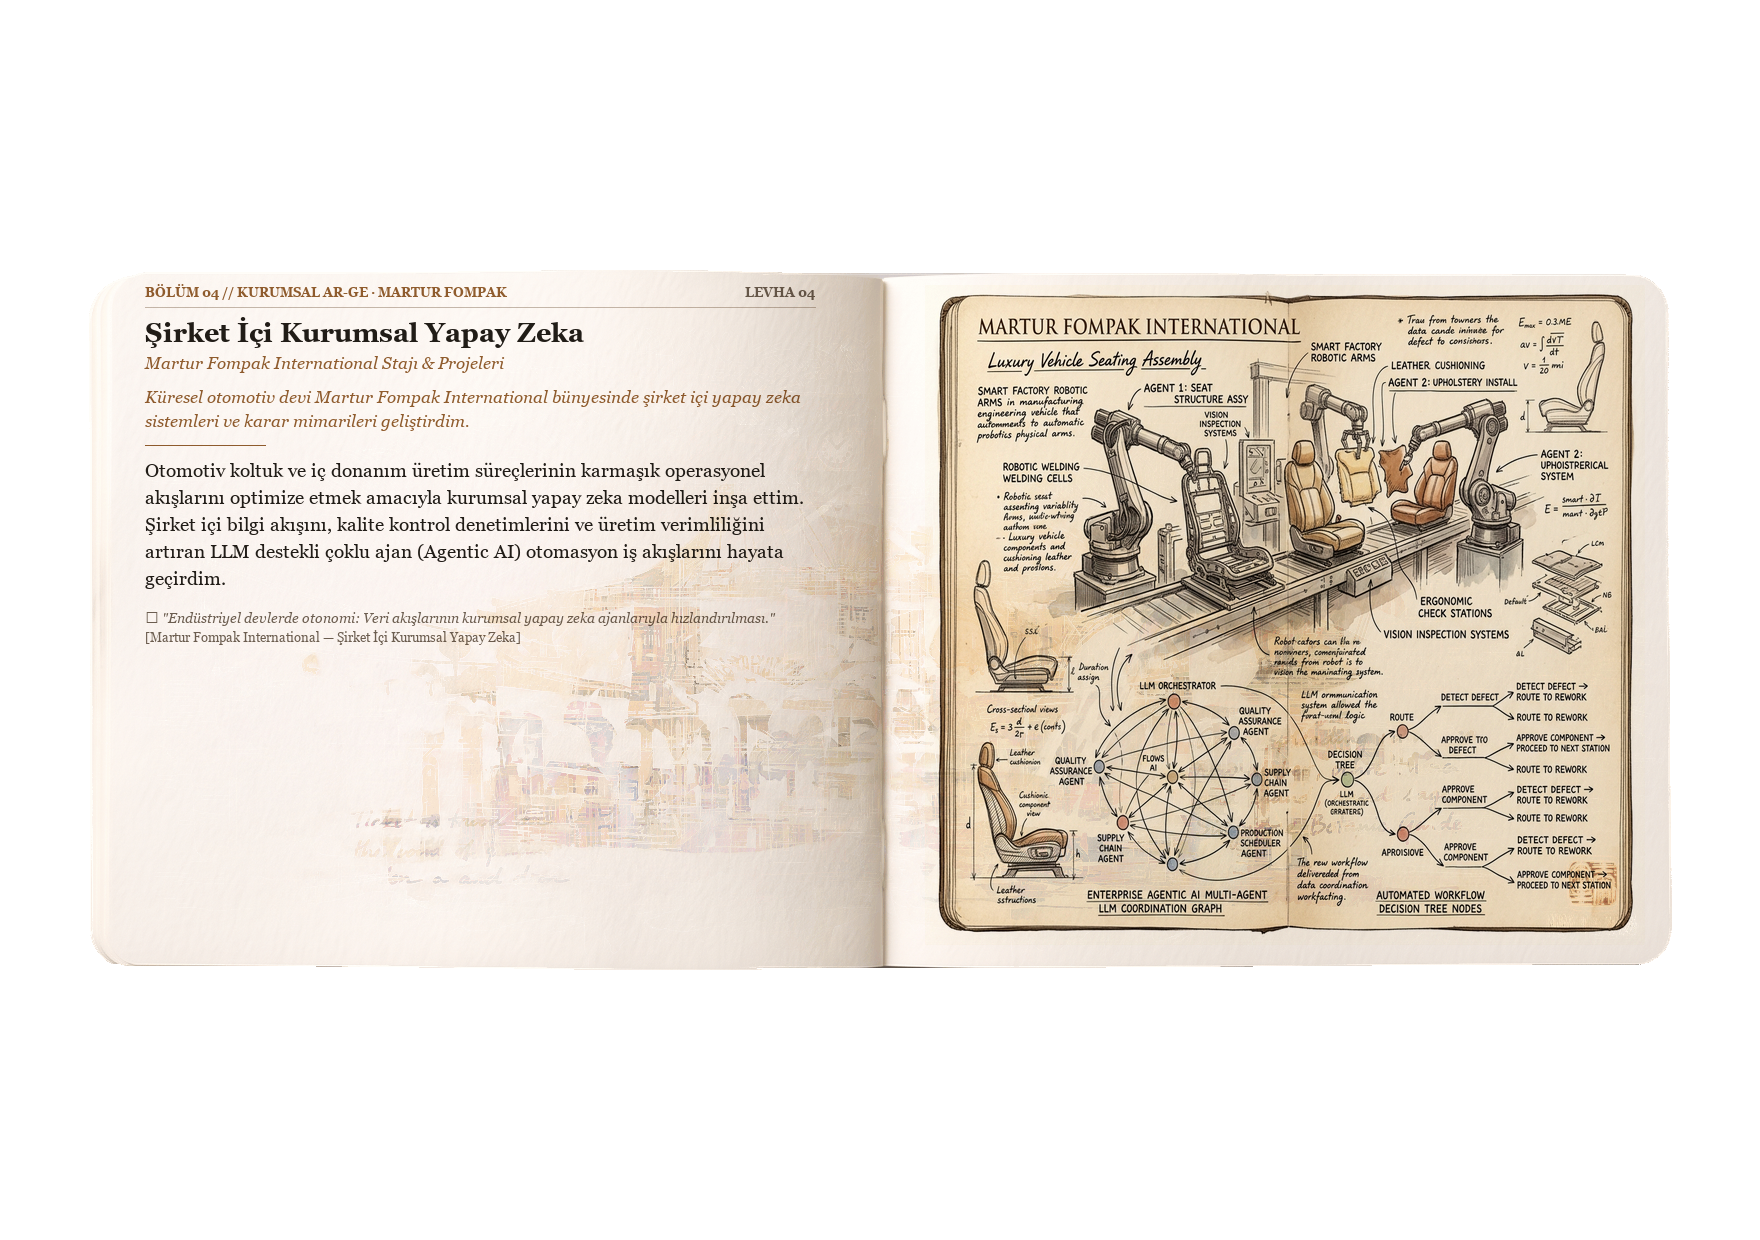
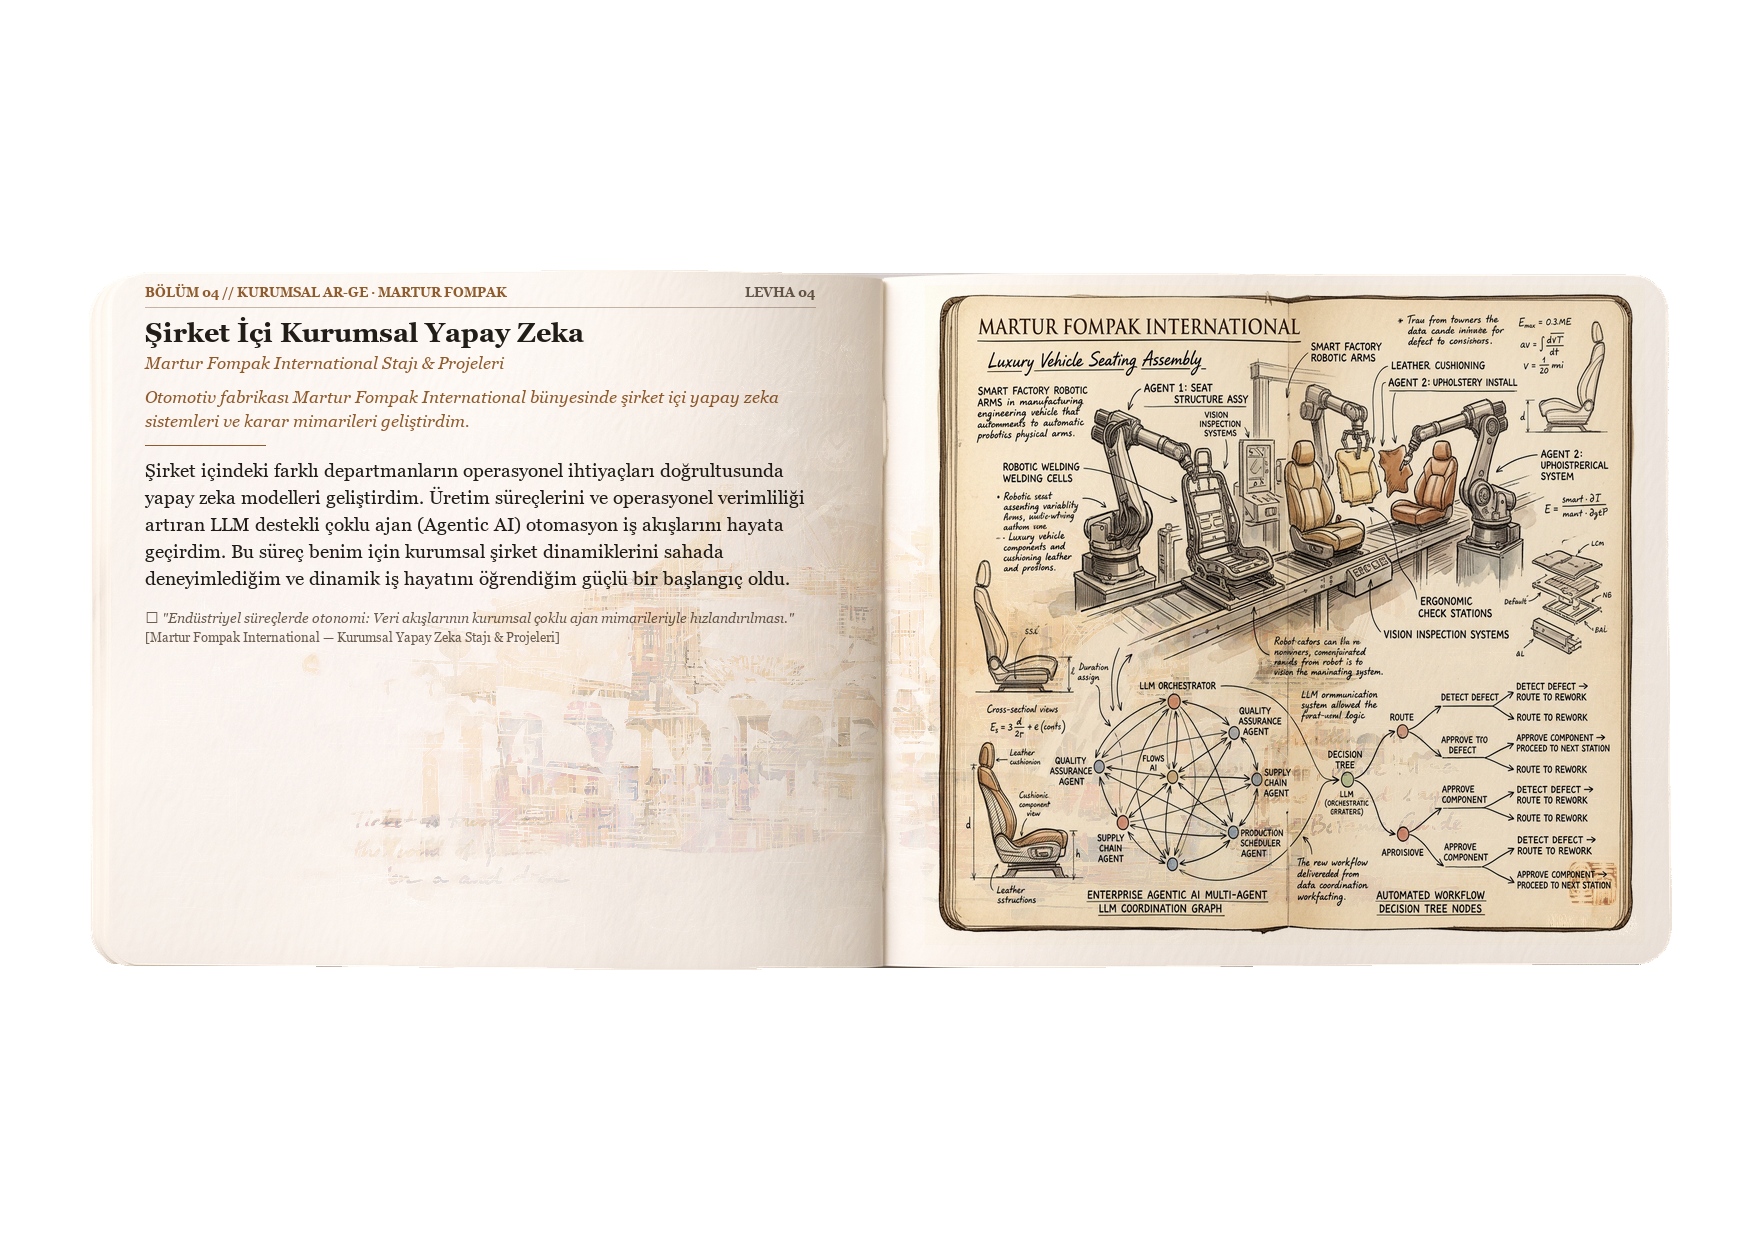
feat(sketchbook): update Martur Fompak page 04 with automotive factory wording and dynamic business experience text

Changed region(s): [[0.0625, 0.3677, 0.4688, 0.521], [0.0938, 0.3065, 0.4375, 0.3371]]

diff --git a/scratch/build_spread_04_martur.py b/scratch/build_spread_04_martur.py
@@ -1,0 +1,113 @@
+import os
+from PIL import Image, ImageDraw, ImageFont
+import numpy as np
+
+SPREAD_BASE = r'scratch/clean_paper_spread.png'
+OUT_FINAL = r'public/landing-pages/meng-to-sketchbook/buddha-tooth.png'
+ILLUS_PATH = r'C:\Users\dloozi\.gemini\antigravity-cli\brain\af0d76d1-4e98-4245-9246-8ea4316a204d\plate07_martur_ai_1789635782335.jpg'
+
+spread = Image.open(SPREAD_BASE).convert('RGBA')
+spread_arr = np.array(spread)
+alpha_orig = spread_arr[:, :, 3]
+
+# Crisp, elegant typography
+font_kicker = ImageFont.truetype(r'C:\Windows\Fonts\georgiab.ttf', 13)
+font_title = ImageFont.truetype(r'C:\Windows\Fonts\georgiab.ttf', 27)
+font_sub = ImageFont.truetype(r'C:\Windows\Fonts\georgiai.ttf', 17)
+font_italic = ImageFont.truetype(r'C:\Windows\Fonts\georgiai.ttf', 17)
+font_body = ImageFont.truetype(r'C:\Windows\Fonts\georgia.ttf', 19)
+font_note = ImageFont.truetype(r'C:\Windows\Fonts\georgiai.ttf', 14)
+font_signature = ImageFont.truetype(r'C:\Windows\Fonts\georgia.ttf', 13)
+
+INK_DEEP = (34, 30, 25, 255)
+INK_FAINT = (110, 98, 85, 255)
+EARTH = (145, 95, 48, 255)
+RULE_COLOR = (175, 160, 145, 180)
+
+canvas = Image.new('RGBA', (1760, 1240), (0, 0, 0, 0))
+draw = ImageDraw.Draw(canvas)
+
+LX = 145
+LY = 285
+MAX_W = 670
+
+# 1. Kicker & Plate Number
+draw.text((LX, LY), 'BÖLÜM 04 // KURUMSAL AR-GE · MARTUR FOMPAK', font=font_kicker, fill=EARTH)
+draw.text((LX + MAX_W - 70, LY), 'LEVHA 04', font=font_kicker, fill=INK_FAINT)
+draw.line([(LX, LY + 22), (LX + MAX_W, LY + 22)], fill=RULE_COLOR, width=1)
+
+# 2. Title & Subtitle
+draw.text((LX, LY + 32), 'Şirket İçi Kurumsal Yapay Zeka', font=font_title, fill=INK_DEEP)
+draw.text((LX, LY + 68), 'Martur Fompak International Stajı & Projeleri', font=font_sub, fill=EARTH)
+
+def wrap_text(text, font, max_width, d):
+    words = text.split(' ')
+    lines = []
+    cur = words[0]
+    for w in words[1:]:
+        test = cur + ' ' + w
+        bbox = d.textbbox((0, 0), test, font=font)
+        if bbox[2] - bbox[0] <= max_width:
+            cur = test
+        else:
+            lines.append(cur)
+            cur = w
+    lines.append(cur)
+    return lines
+
+# Lead text: 'otomotiv devi' changed to 'otomotiv fabrikası'
+lead_text = 'Otomotiv fabrikası Martur Fompak International bünyesinde şirket içi yapay zeka sistemleri ve karar mimarileri geliştirdim.'
+curr_y = LY + 102
+for line in wrap_text(lead_text, font_italic, MAX_W, draw):
+    draw.text((LX, curr_y), line, font=font_italic, fill=EARTH)
+    curr_y += 24
+
+curr_y += 10
+draw.line([(LX, curr_y), (LX + 120, curr_y)], fill=EARTH, width=1)
+curr_y += 14
+
+# Body text: Department needs, Agentic AI, and learning dynamic business life
+body_text = (
+    'Şirket içindeki farklı departmanların operasyonel ihtiyaçları doğrultusunda yapay zeka modelleri '
+    'geliştirdim. Üretim süreçlerini ve operasyonel verimliliği artıran LLM destekli çoklu ajan '
+    '(Agentic AI) otomasyon iş akışlarını hayata geçirdim. Bu süreç benim için kurumsal şirket dinamiklerini '
+    'sahada deneyimlediğim ve dinamik iş hayatını öğrendiğim güçlü bir başlangıç oldu.'
+)
+
+for line in wrap_text(body_text, font_body, MAX_W, draw):
+    draw.text((LX, curr_y), line, font=font_body, fill=INK_DEEP)
+    curr_y += 27
+
+curr_y += 16
+note_text = '✦ "Endüstriyel süreçlerde otonomi: Veri akışlarının kurumsal çoklu ajan mimarileriyle hızlandırılması."'
+draw.text((LX, curr_y), note_text, font=font_note, fill=INK_FAINT)
+curr_y += 20
+
+signature_text = '[Martur Fompak International — Kurumsal Yapay Zeka Stajı & Projeleri]'
+draw.text((LX, curr_y), signature_text, font=font_signature, fill=INK_FAINT)
+
+# 3. Right Page: Plate 07 Martur AI Multi-Agent & Factory assembly
+if os.path.exists(ILLUS_PATH):
+    im_illus = Image.open(ILLUS_PATH).convert('RGBA')
+    im_resized = im_illus.resize((720, 660), Image.Resampling.LANCZOS)
+    canvas.paste(im_resized, (925, 285))
+
+# 4. Multiply Blend onto spread paper
+canvas_arr = np.array(canvas)
+out_arr = np.zeros_like(spread_arr)
+
+base_rgb = spread_arr[:, :, :3].astype(float)
+canvas_rgb = canvas_arr[:, :, :3].astype(float)
+canvas_alpha = canvas_arr[:, :, 3].astype(float) / 255.0
+
+for c in range(3):
+    out_arr[:, :, c] = np.clip(
+        base_rgb[:, :, c] * (1.0 - canvas_alpha) + (base_rgb[:, :, c] * canvas_rgb[:, :, c] / 255.0) * canvas_alpha,
+        0, 255
+    ).astype(np.uint8)
+
+out_arr[:, :, 3] = alpha_orig
+
+res = Image.fromarray(out_arr, 'RGBA')
+res.save(OUT_FINAL)
+print(f'SUCCESS! Spread 04 (buddha-tooth.png) saved to {OUT_FINAL} ({os.path.getsize(OUT_FINAL)} bytes)')

diff --git a/scratch/build_all_spreads_v2.py b/scratch/build_all_spreads_v2.py
@@ -69,10 +69,10 @@ spreads_data = [
         'plate_num': 'LEVHA 04',
         'title': 'Şirket İçi Kurumsal Yapay Zeka',
         'subtitle': 'Martur Fompak International Stajı & Projeleri',
-        'lead': 'Küresel otomotiv devi Martur Fompak International bünyesinde şirket içi yapay zeka sistemleri ve karar mimarileri geliştirdim.',
-        'body': 'Otomotiv koltuk ve iç donanım üretim süreçlerinin karmaşık operasyonel akışlarını optimize etmek amacıyla kurumsal yapay zeka modelleri inşa ettim. Şirket içi bilgi akışını, kalite kontrol denetimlerini ve üretim verimliliğini artıran LLM destekli çoklu ajan (Agentic AI) otomasyon iş akışlarını hayata geçirdim.',
-        'note': '✦ "Endüstriyel devlerde otonomi: Veri akışlarının kurumsal yapay zeka ajanlarıyla hızlandırılması."',
-        'signature': '[Martur Fompak International — Şirket İçi Kurumsal Yapay Zeka]'
+        'lead': 'Otomotiv fabrikası Martur Fompak International bünyesinde şirket içi yapay zeka sistemleri ve karar mimarileri geliştirdim.',
+        'body': 'Şirket içindeki farklı departmanların operasyonel ihtiyaçları doğrultusunda yapay zeka modelleri geliştirdim. Üretim süreçlerini ve operasyonel verimliliği artıran LLM destekli çoklu ajan (Agentic AI) otomasyon iş akışlarını hayata geçirdim. Bu süreç benim için kurumsal şirket dinamiklerini sahada deneyimlediğim ve dinamik iş hayatını öğrendiğim güçlü bir başlangıç oldu.',
+        'note': '✦ "Endüstriyel süreçlerde otonomi: Veri akışlarının kurumsal çoklu ajan mimarileriyle hızlandırılması."',
+        'signature': '[Martur Fompak International — Kurumsal Yapay Zeka Stajı & Projeleri]'
     },
     {
         'file': 'joo-chiat.png',
@@ -158,8 +158,8 @@ def wrap_text(text, font, max_width, draw):
 
 for s in spreads_data:
     dest_file = s['file']
-    if dest_file in ['marina-bay-sands.png', 'gardens-by-the-bay.png', 'merlion.png']:
-        # Managed with custom high-fidelity pipelines in scratch/build_spread_01_retro.py, build_spread_02_modern.py & build_spread_03_university.py
+    if dest_file in ['marina-bay-sands.png', 'gardens-by-the-bay.png', 'merlion.png', 'buddha-tooth.png']:
+        # Managed with custom high-fidelity pipelines in scratch/build_spread_01_retro.py, 02_modern.py, 03_university.py & 04_martur.py
         continue
     illus_file = s['illus']
     dest_path = os.path.join(out_dir, dest_file)
